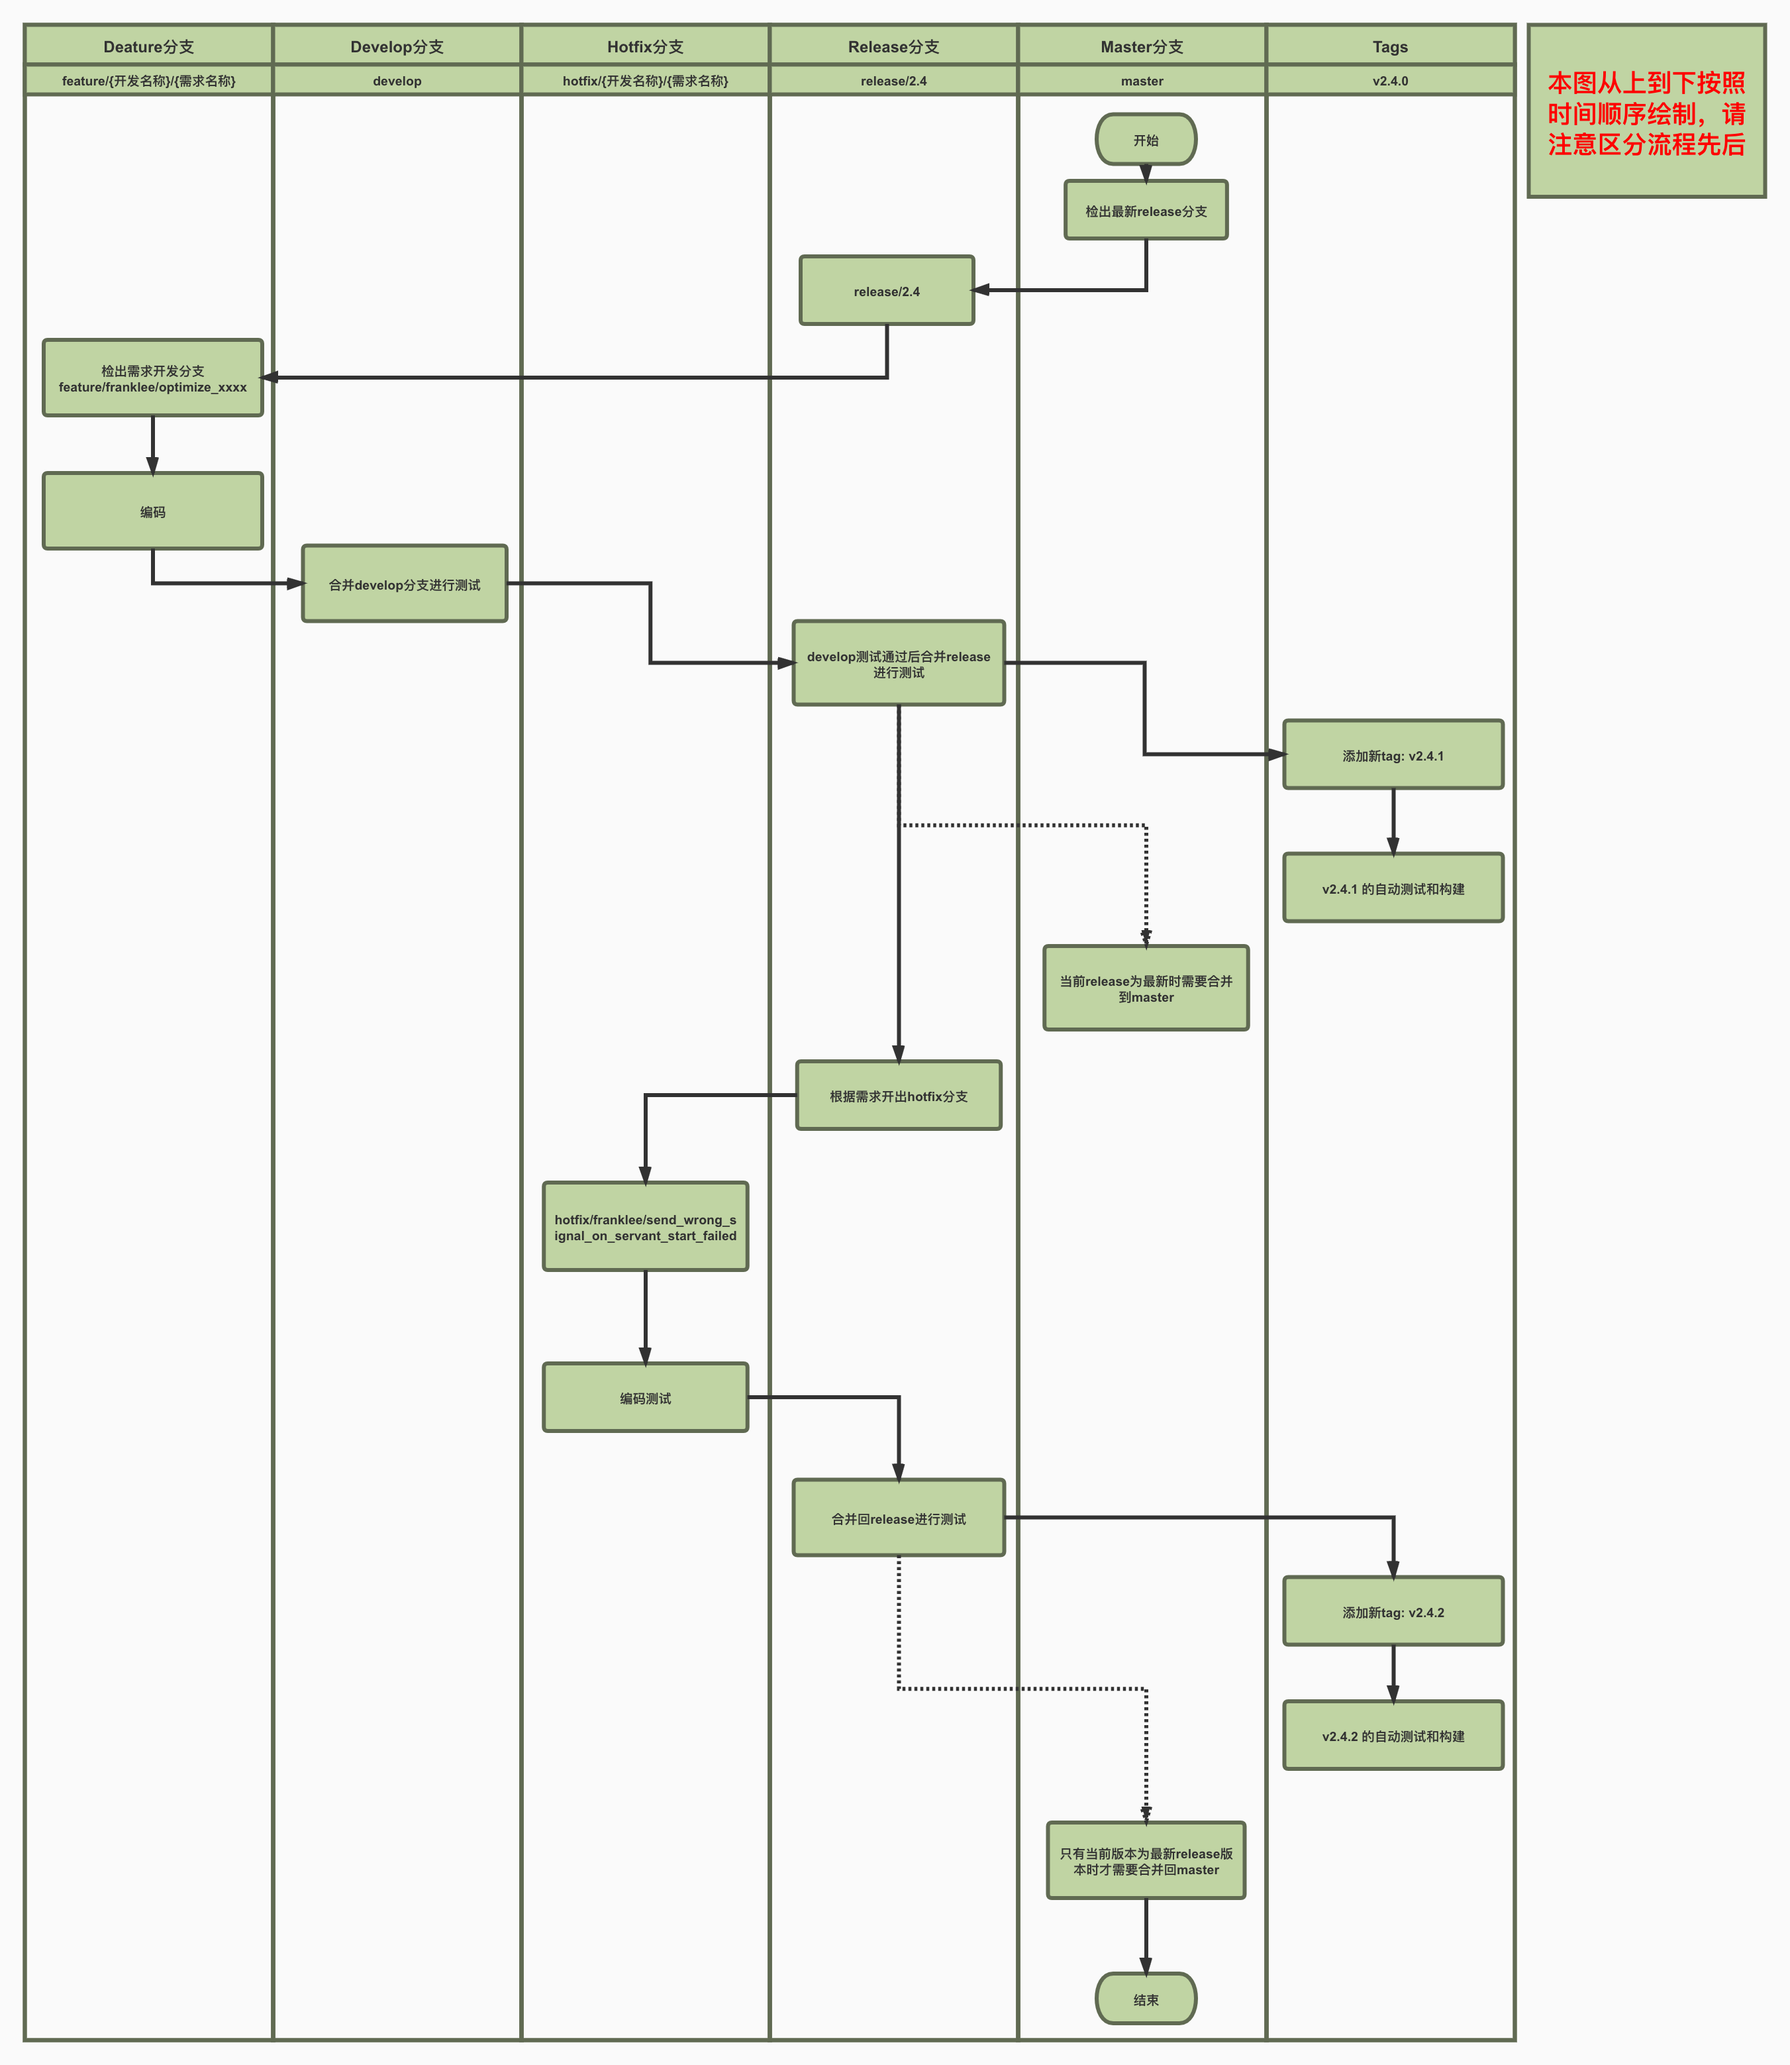
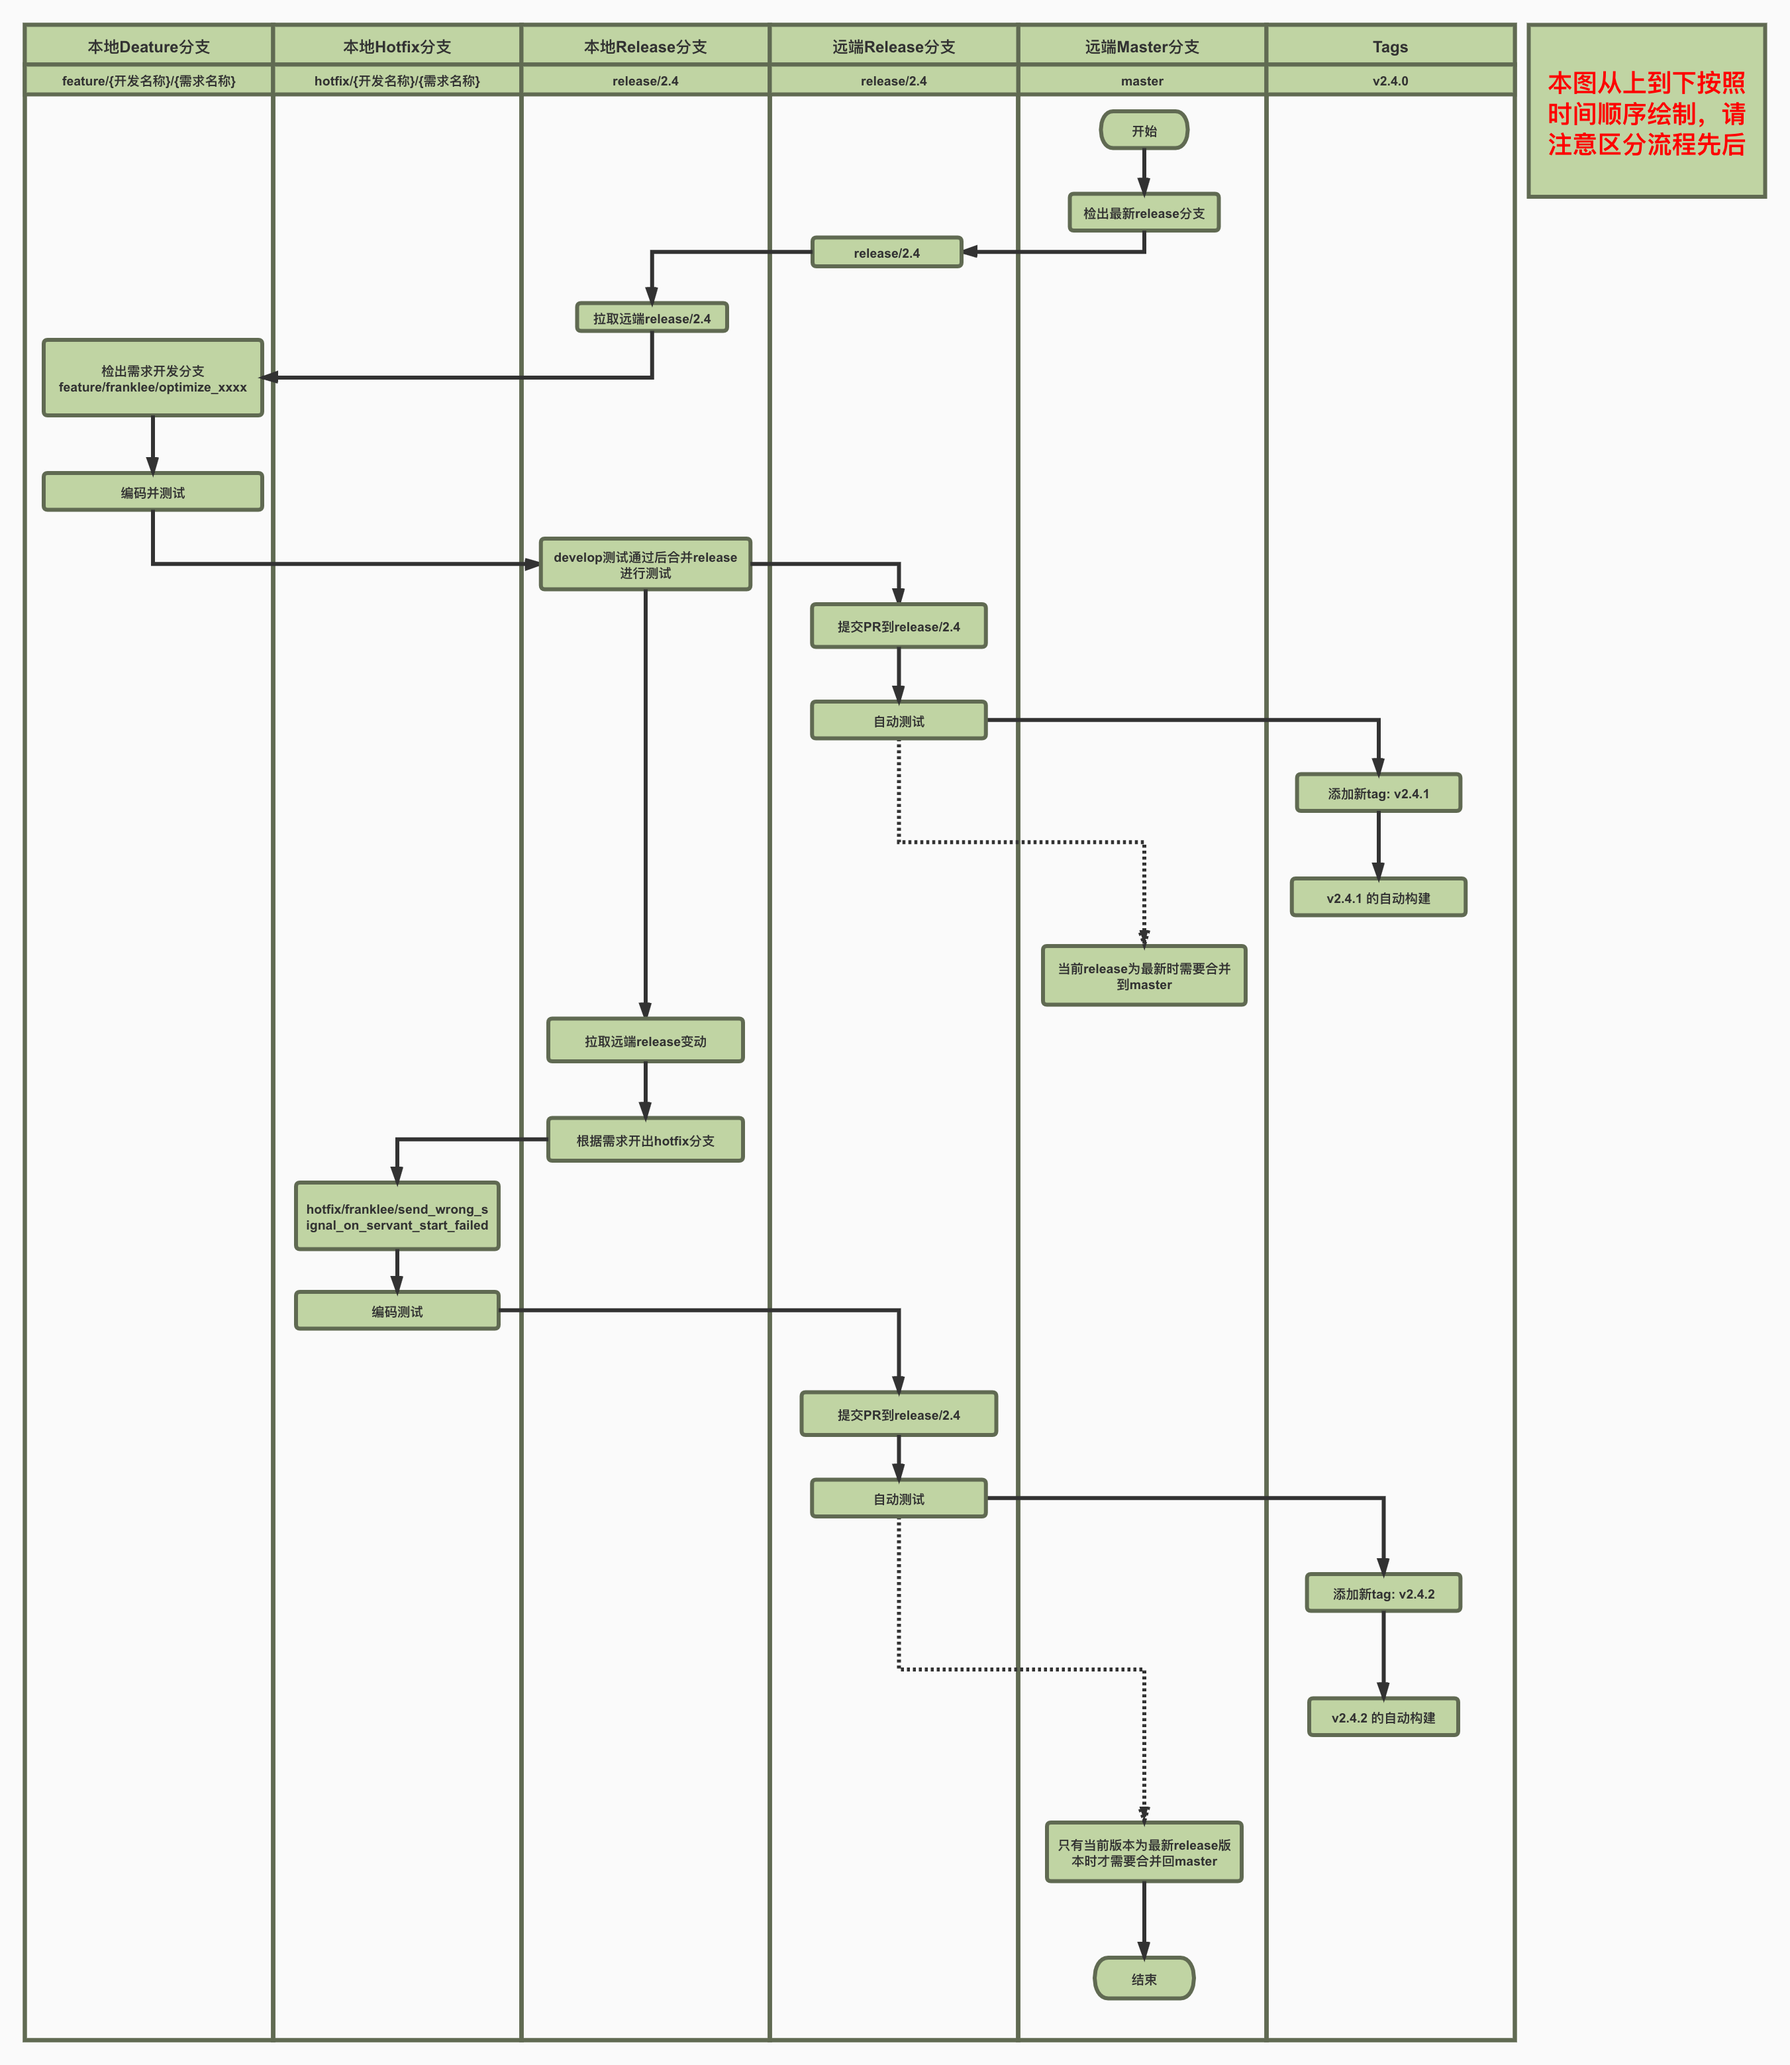
optimize team cooperation docs

diff --git a/cooperation/tars_framework_git_flows.md b/cooperation/tars_framework_git_flows.md
@@ -17,12 +17,12 @@
 
 1. 请先fork对应的GitHub仓库
 2. 在开发之前请谨记，release/x.x为对应版本的发布分支，这个分支相当于单版本项目仓库的master分支
-3. 务必在动手之前先获取远端仓库对应release分支的最新变动，避免出现合并冲突
-4. 请从对应版本的release分支检出一个feature分支进行功能开发，feature分支命名规范为：feature/`{Git用户名}`/`{需求名称}`，如：`feature/franklee/correct_error_message_on_property_table_missing`
+3. 务必在动手之前先拉取远端仓库对应release分支的最新变动到本地release分支，避免出现合并冲突
+4. 请从本地对应版本的release分支检出一个feature分支进行功能开发，feature分支命名规范为：feature/`{Git用户名}`/`{需求名称}`，如：`feature/franklee/correct_error_message_on_property_table_missing`
 5. 若是紧急修复，请检出hotfix分支，命名规范为：hotfix/`{Git用户名}`/`{需求名称}`，如：`hotfix/franklee/fix_wrong_typing_on_servant_status_enum_define`
-5. 开发完成后请务必将对应的feature分支合并到develop分支并充分测试
-6. 测试完成后，请将当前的feature分支合并到对应的release分支
-7. 提交Pull Request到远端仓库，并撰写必要说明
+5. 开发完成后请务必先对对应的feature或hotfix分支进行充分测试
+6. 测试完成后，请将当前的feature分支合并到本地的release分支
+7. 提交Pull Request到远端仓库release分支，并撰写必要说明
 
 详细工作流见下图：
 
@@ -30,6 +30,10 @@
 
 ### 特别注意
 
-1. 为了保证master版本与最新版release分支同步，最新版本框架的release版本在发布完成后需要合并到master
-2. 只有新开release版本才需要从master检出
-3. 严禁合并除最新版release分支以外的分支到master
+1. 远端仓库：TarsCloud/xxx 的官方仓库
+2. 远端分支：远端仓库TarsCloud/xxx下的分支
+3. 本地仓库：从远端仓库fork出来的仓库
+4. 本地分支：从本地仓库检出的分支
+5. 为了保证master版本与最新版release分支同步，最新版本框架的release版本在发布完成后需要合并到master
+6. 只有新开release版本才需要从master检出
+7. 严禁合并除最新版release分支以外的分支到master
